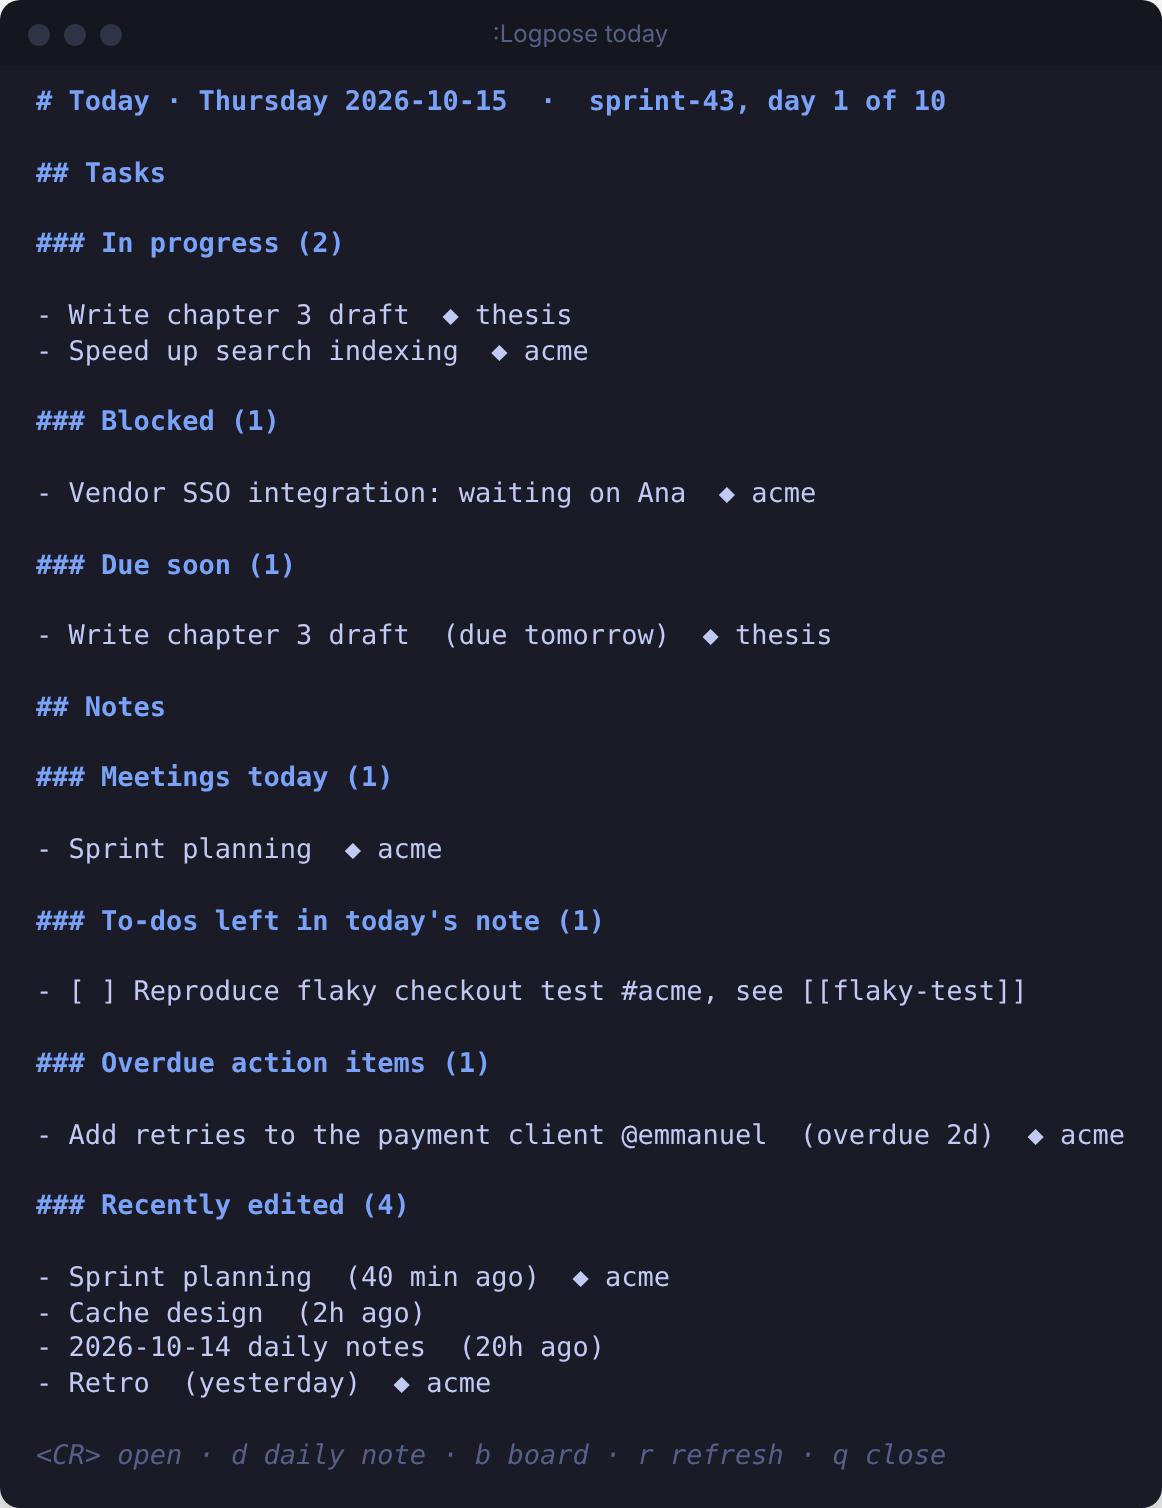
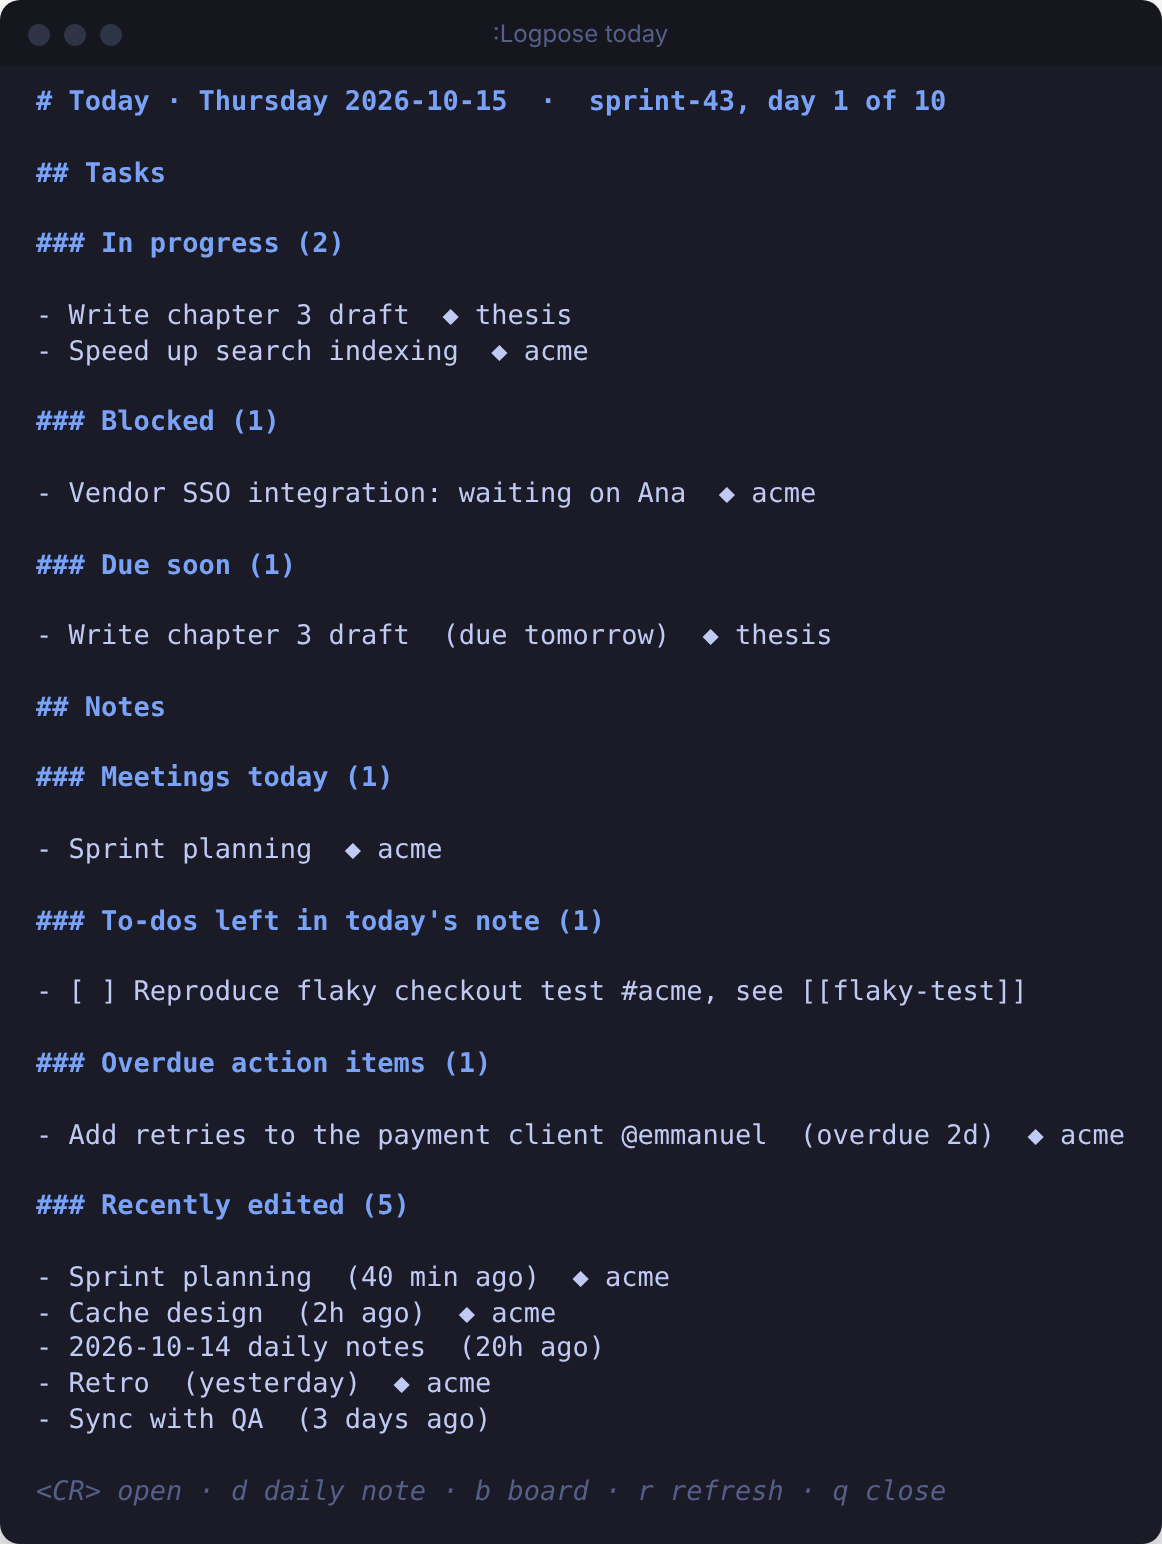
docs: lists and the filter language

diff --git a/scripts/screenshots/shot.py b/scripts/screenshots/shot.py
@@ -1,7 +1,7 @@
 import re, sys, html, pathlib
 from playwright.sync_api import sync_playwright
 d = pathlib.Path(sys.argv[1])
-views = [("board", "~/journal — :Logpose board"), ("today", ":Logpose today"), ("projects", ":Logpose projects"), ("edit", ":Logpose edit — Fix flaky checkout test"), ("notes", ":Logpose notes")]
+views = [("board", "~/journal — :Logpose board"), ("today", ":Logpose today"), ("projects", ":Logpose projects"), ("edit", ":Logpose edit — Fix flaky checkout test"), ("notes", ":Logpose notes"), ("meetings", ":Logpose meetings")]
 out = pathlib.Path(sys.argv[2]); out.mkdir(exist_ok=True)
 with sync_playwright() as p:
     b = p.chromium.launch()

diff --git a/README.md b/README.md
@@ -19,7 +19,7 @@ Requires Neovim 0.10 or later.
 - **Start:** [Install](#install) · [Quick start](#quick-start) ·
   [Tasks, notes and to-dos](#tasks-notes-and-to-dos) · [How it fits a sprint](#how-it-fits-a-sprint)
 - **Guide:** [Daily notes and standup](#daily-notes-and-standup) · [Meetings](#meetings) ·
-  [Tasks and the board](#tasks-and-the-board) · [Notes screen](#the-notes-screen) ·
+  [Tasks and the board](#tasks-and-the-board) · [Lists](#meetings-notes-and-people-lists) ·
   [Today screen](#the-today-screen) ·
   [Projects](#projects) · [Search](#search) · [Action items](#action-items-and-people) ·
   [People](#people) ·
@@ -367,35 +367,55 @@ with that title exists, the write-up is added to its end. On a to-do inside a ta
 
 > **Configure:** columns, WIP limits, colours and glyphs are all in [`board`](#configuration).
 
-## The notes screen
+## Meetings, notes and people lists
 
-**The board is for tasks; this is for notes.**
+**The board is for tasks; these are for everything else.**
 
-![The notes screen: meetings, topic notes, daily notes and project pages, newest first, with open to-dos, linked tasks and projects](docs/images/notes.png)
+![The meetings list: meetings grouped by week, with their type, attendees, open action items, linked tasks and project](docs/images/meetings.png)
 
-`:Logpose notes` lists your notes newest first, in sections: meetings, topic notes, daily notes
-and project pages. Each line shows the note's date and title, how many open to-dos it holds
-(`☐ 2 to-dos`), how many tasks it's linked with (`→ 1 task`) and, on the all-projects view, its
-project. Long sections show the newest eight; `<CR>` on `… N more` shows the rest.
+```vim
+:Logpose meetings                       " every meeting, by week
+:Logpose meetings attendees:ana         " the ones Ana attended
+:Logpose notes                          " topic notes and project pages
+:Logpose people                         " everyone you work with
+```
 
-Like the board, it shows the active project's notes (by `project:` or a `#project` tag, so a
-daily note mentioning `#acme` counts), or all of them when there's none. `f` on a project in
-`:Logpose projects` opens it for that project.
+Each is a list grouped under headings, newest or most relevant first, with what matters at a
+glance:
+
+| List | Each line | Group by (`g`) |
+|---|---|---|
+| **Meetings** | date, type, title, who was there, open action items (`☐ 2 open`), tasks it led to (`→ 1 task`) | week · type · project · series |
+| **Notes** | date, title, open to-dos, linked tasks, project, tags | type · project · tag · month |
+| **People** | name, role, how to reach them, when you last met, open to-dos they own | page · project · role · last met |
+
+Notes lists topic notes and project pages; daily notes show up with `type:daily` in the filter
+(and meetings with `type:meeting`). Like the board, each list shows the active project, or every
+project when there's none.
+
+**Moving an entry changes its note**, so the list and your files always agree. Grouped by
+project, `m` moves a meeting to another project (its file moves to that project's folder, links
+follow); grouped by type it changes the meeting's `type:`; by tag it swaps the note's tag; by role
+or project it updates the person's page. `<` and `>` move to the previous or next group. Groups
+that come from the note itself (week, month, when you last met) can't be moved to; `e` edits the
+date instead.
 
 | Key | Does |
 |---|---|
-| `<CR>` | Open the note. On a heading, fold or unfold the section. |
-| `e` | Edit the note's details (frontmatter) in the form. |
-| `/` | Filter, with the `find` filters: `#tag`, `@ana`, `type:retro`, `since:-7d`… |
+| `<CR>` | Open it. On a heading, fold the group; on `… N more`, show the rest. |
+| `<Tab>` | Details: the attendees, action items, linked tasks; for a person, their meetings, to-dos and mentions. `<CR>` opens any of them. |
+| `K` | Peek: the note in a floating window, to read and edit. |
+| `/` | Filter, with the [find filters](#search-filters): `type:retro or type:review`, `attendees:ana date>=-30d`, `-#draft`… |
+| `g` / `s` | Change the grouping / the order (newest, oldest, by title; people: recently met, by name, most involved). |
+| `m`, `<`, `>` | Move to another group (asks, with `new…` for a new project, tag or role) / the previous / the next. |
+| `e` / `a` | Edit in the form / add a new one in the group you're in. |
 | `p` | This project / all projects. |
-| `g` | Group by type / by project. |
-| `z` | Fold or unfold the section. |
-| `a` | A new note for the section you're in: a meeting under Meetings, else a topic note (in the form, with this screen's project). |
-| `n` / `m` | A new topic note / meeting, in the form. |
-| `d` / `b` | Today's daily note / the board. |
+| `z`, `]]`, `[[` | Fold the group; jump to the next / previous group. |
 | `r` / `q` / `?` | Refresh / close / help. |
 
-`:Logpose notes #perf` starts with a filter.
+The people list adds `y` (copy a way to reach them), `o` (open it: mail, chat), `1` (start a 1:1)
+and `R` (rename them everywhere); the notes list `d` (today's daily note) and `b` (the board).
+`f` on a project in `:Logpose projects` opens its notes.
 
 ## The today screen
 
@@ -430,7 +450,7 @@ switches without leaving where you are.
 **No project** suits switching contexts all day: nothing is pinned or detected, and new meetings
 and topic notes open their form with the project empty, so you choose it there
 (`:Logpose meeting retro` opens the form with Retro picked, `:Logpose note Title` with the
-title). The board, today and notes screens show every project. It stays that way, across
+title). The board, today and the lists show every project. It stays that way, across
 restarts, until you switch to a project or `auto`.
 
 With `auto` (the default), logpose works the project out from where you are:
@@ -462,7 +482,7 @@ come first, and ones untouched for two weeks fade. `<Tab>` opens a project in pl
 | `b` | Open the project's board. |
 | `n` | Open its project page. |
 | `t` / `o` | Search its open tasks / its open to-dos. |
-| `f` | Open the notes screen for it. |
+| `f` | Open the notes list for it. |
 | `a` | Add a project: its name, then its repo folder (suggested from where you came from). |
 | `p` | Link another repo folder to the project. |
 | `e` | Edit its name, description, repo folders and colour in a form. |
@@ -533,6 +553,8 @@ separate scopes: `notes` never lists tasks. Everything after it is a
 | `open` / `done` | tasks (in Done or not), to-dos (checked or not) |
 | `blocked` | blocked tasks |
 | `sprint:current`, `sprint:-1`, `since:-7d` | a time range |
+| `attendees:ana`, `date>=-30d`, `role:lead` | any frontmatter field |
+| `a or b`, `not a`, `-a`, `( … )` | either, neither, grouping |
 | any other word | must appear in the text |
 
 All filters are in the [reference](#search-filters).
@@ -594,17 +616,17 @@ Prefers async reviews. Back from leave on the 21st.
 ```
 
 `aliases` make "Ana", `@ana` and "Ana López" the same person everywhere: completion, filters
-(`person:ana` finds the notes that say Ana López too), the people screen. `projects` puts her
-first in that project's meetings before you've met her there. Add a person from the people screen
+(`person:ana` finds the notes that say Ana López too), the people list. `projects` puts her
+first in that project's meetings before you've met her there. Add a person from the people list
 (`a`), with `:Logpose person`, or with `:Logpose edit` on their page; the form has a field for
 each way to reach people.
 
-**The people screen** lists people with a page (most recently met first), then the people your
-notes mention who have no page yet. `<Tab>` shows what involves someone (their meetings, the open
-to-dos they own, tasks and notes mentioning them). `<CR>` opens their page, or the form to add one.
-`e` edits it, `m` starts a 1:1, `y` copies a way to reach them and `o` opens it (a mail, a chat).
-`R` renames them everywhere, `/` filters by name, role or project, `p` switches between this
-project and everyone, `?` lists the keys.
+**The people list** (`:Logpose people`, see [the lists](#meetings-notes-and-people-lists)) shows
+people with a page, then the people your notes mention who have no page yet. `<Tab>` shows what
+involves someone (their meetings, the open to-dos they own, tasks and notes mentioning them).
+`<CR>` opens their page, or the form to add one. `e` edits it, `1` starts a 1:1, `y` copies a way
+to reach them and `o` opens it (a mail, a chat). `R` renames them everywhere, and `/` filters with
+any field: `role:lead`, `slack:*`, `project:acme`.
 
 `gx` on an `@mention` or an attendee opens their page. `:Logpose rename-person ana Ana García`
 renames someone everywhere: the page (the old name stays as an alias), attendees and `@mentions`.
@@ -833,12 +855,13 @@ mapping. A `!` can go on either word: `:Logpose archive!` is the same as `:Logpo
 
 | Command | Does |
 |---|---|
-| `notes [FILTERS]` | The notes screen: notes by type or project, with their to-dos and linked tasks. |
+| `meetings [FILTERS]` | Every meeting, by week, type, project or series, with attendees and action items. |
+| `notes [FILTERS]` | Topic notes and project pages by type, project, tag or month, with their to-dos and linked tasks. |
 | `note [TITLE]` | Create or open a topic note. Without a title, the new-note form. |
 | `project [NAME\|none\|auto]` | Switch project (the projects screen without a name); `none` for no project, `auto` to detect it. |
 | `projects` | Manage projects: what needs attention, add, rename, merge, archive. |
 | `project-page [NAME]` | Create or open a project page. |
-| `people [FILTER]` | The people screen: everyone you work with, how to reach them, what involves them. |
+| `people [FILTERS]` | Everyone you work with, how to reach them, what involves them. |
 | `person [NAME]` | Open someone's page, or add one. |
 | `edit [last]` | Edit the frontmatter of this note or task (or the last captured task's, or the tasks on selected quickfix lines) in a form. |
 
@@ -884,14 +907,24 @@ With cards marked, `H` `L`, `1`–`9`, `x`, `b`, `m` and `e` act on all of them 
 | `project:acme` | items of the project, or tagged `#acme` |
 | `#perf`, `tag:perf` | tagged items |
 | `@ana`, `person:ana` | items involving the person: attendee, 1:1, or @mention |
-| `type:retro` | meetings of that type |
+| `type:retro` | meetings of that type; `type:daily`, `type:meeting`, `type:topic`, `type:project`, `type:task`, `type:person` for kinds of notes |
 | `open`, `done` | tasks (in Done or not) and to-dos (checked or not) |
 | `status:in-progress` | tasks in that board column |
 | `blocked` | blocked tasks |
 | `since:DATE`, `until:DATE` | `2026-10-14`, `today`, `yesterday`, `tomorrow`, `-7d`, `+2w` |
 | `week:current`, `sprint:-1`, `sprint:42` | a whole week or sprint |
 | `section:decisions` | lines under a matching `##` heading |
-| any other word | must appear in the text |
+| `key:value` | any frontmatter field containing the value (case and accents ignored): `room:lisboa`, `role:lead` |
+| `attendees:ana`, `with:ana` | meetings with the person, by any of their names, or part of one |
+| `date:2026-10`, `date:2026`, `due:today` | a day, month or year (also `created:`, `started:`, `done:`, `modified:`) |
+| `date>=-7d`, `due<today`, `score>3` | comparisons: `>`, `>=`, `<`, `<=` (dates and numbers) |
+| `date:2026-10-01..2026-10-15`, `date:..2026-09` | a range of dates |
+| `slack:*`, `has:email`, `no:email` | has the field / doesn't |
+| `a or b` | either one (`and` is the default between filters; it binds tighter than `or`) |
+| `not a`, `-a` | the opposite: `-#draft`, `not type:daily` |
+| `( … )` | grouping: `(type:retro or type:review) @ana` |
+| `"two words"` | a value with spaces: `attendees:"Ana López"` |
+| any other word | must appear in the text (accents ignored) |
 
 Tags are inline `#words` (not headings, URL fragments or numbers like `#123`) and frontmatter
 `tags: [a, b]`, compared without case.
@@ -908,7 +941,8 @@ and it never replaces a key you've mapped yourself.
 | | `<leader>js` | standup | `<leader>jr` | report |
 | | `<leader>jP` | projects (switch, manage) | `<leader>je` | edit details (frontmatter) |
 | | `<leader>ju` | people | | |
-| **Notes** | `<leader>jl` | notes screen | `<leader>jd` | daily note |
+| **Notes** | `<leader>jl` | notes list | `<leader>jd` | daily note |
+| | `<leader>jM` | meetings list | | |
 | | `<leader>jm` | meeting note | `<leader>jn` | topic note |
 | | `<leader>jf` | find notes | `<leader>jb` | backlinks |
 | | `<leader>j/` | grep the journal | | |
@@ -990,9 +1024,9 @@ Colours come from highlight groups linked to your colour scheme. Override
 `LogposeBoardNotes` (the linked-notes count),
 `LogposeBoardBlocked`, `LogposeBoardOverdue`, `LogposeBoardDueSoon`, `LogposeBoardStale`,
 `LogposeBoardDone`, `LogposeBoardMarked`, `LogposeBoardProject`, `LogposeBoardTag`,
-`LogposeBoardTitle` or `LogposeBoardHint` to change them. The notes screen uses
-`LogposeNotesHeading`, `LogposeNotesDate`, `LogposeNotesMeta`, `LogposeNotesTodos`,
-`LogposeNotesTasks` and `LogposeNotesHint`.
+`LogposeBoardTitle` or `LogposeBoardHint` to change them. The lists use `LogposeListHeading`,
+`LogposeListGroup`, `LogposeListDate`, `LogposeListMeta`, `LogposeListTodos`, `LogposeListTasks`,
+`LogposeListPeople` and `LogposeListHint`.
 
 </details>
 

diff --git a/docs/SPEC.md b/docs/SPEC.md
@@ -64,7 +64,7 @@ capture/done, sprint-aware archives and reports.
 
 **Releases.** Annotated tags in `MAJOR.MINOR.PATCH` form (no `v` prefix). Each completed feature
 bumps the minor version (0.1.0 = F0+F1, 0.2.0 = F1.5, 0.3.0 = F1.6, 0.4.0 = F2, 0.5.0 = F2.1, 0.6.0 = F3, 0.7.0 = F4, 0.8.0 = F5, 0.9.0 = F6, 0.10.0 = O1, 0.11.0 = O2, 0.12.0 = O3, 0.13.0 = O4, 0.14.0 = O5, 0.15.0 = O6, 0.16.0 = F7,
-0.17.0 = F8, 0.18.0 = T1, 0.19.0 = live search and previews, 0.20.0 = B1, 0.21.0 = markdownlint-clean notes, 0.22.0 = timestamps, board look and delete, 0.23.0 = peek, scrolling columns, WIP limits and age, 0.23.1 = board resize fixes, 0.24.0 = command menu, statusline, board undo, 0.25.0 = today, keymaps preset, titled notifications, board extras, 0.25.1 = docs rewrite, 0.26.0 = project manager, project completion and board-follows-project fixes, 0.27.0 = project switcher, project pages as registry, moving tasks between projects, merging projects, 0.28.0 = switching opens the board, 0.28.1 = board and projects split into modules, tests 40× faster, 0.28.2 = caching for big journals, 0.29.0 = frontmatter editor, 0.30.0 = capture picks the project, form rework, bulk edits, 0.30.1 = completion menu closes after a choice, 0.30.2 = <CR> accepts from the menu, nvim-cmp off in the form, 0.31.0 = the edit form stays open after saving, 0.32.0 = card redesign, 0.32.1 = automatic project colours, no cursorline on the board, 0.33.0 = borders tinted with the project's colour, 0.34.0 = column-coloured borders by default again, tags as chips, 0.35.0 = shared date wording and frontmatter writer; triage, move and the switcher removed, 0.36.0 = new-task form, 0.37.0 = linked notes on cards, recently edited notes on today, 0.38.0 = tasks, notes and to-dos kept apart; INBOX, DONE and migrate removed, 0.39.0 = notes screen, 0.40.0 = new-note forms, 0.40.1 = gx follows note links, 0.40.2 = promoted to-dos start in Backlog, 0.40.3 = gx works alongside a markdown plugin's, 0.41.0 = notes from tasks; promoted to-dos keep their text, 0.42.0 = people: a list, forgiving matching, completion in notes, 0.43.0 = people pages and the people screen, 0.44.0 = to-dos and their tasks in step, 0.45.0 = "no project" mode); fixes bump the patch;
+0.17.0 = F8, 0.18.0 = T1, 0.19.0 = live search and previews, 0.20.0 = B1, 0.21.0 = markdownlint-clean notes, 0.22.0 = timestamps, board look and delete, 0.23.0 = peek, scrolling columns, WIP limits and age, 0.23.1 = board resize fixes, 0.24.0 = command menu, statusline, board undo, 0.25.0 = today, keymaps preset, titled notifications, board extras, 0.25.1 = docs rewrite, 0.26.0 = project manager, project completion and board-follows-project fixes, 0.27.0 = project switcher, project pages as registry, moving tasks between projects, merging projects, 0.28.0 = switching opens the board, 0.28.1 = board and projects split into modules, tests 40× faster, 0.28.2 = caching for big journals, 0.29.0 = frontmatter editor, 0.30.0 = capture picks the project, form rework, bulk edits, 0.30.1 = completion menu closes after a choice, 0.30.2 = <CR> accepts from the menu, nvim-cmp off in the form, 0.31.0 = the edit form stays open after saving, 0.32.0 = card redesign, 0.32.1 = automatic project colours, no cursorline on the board, 0.33.0 = borders tinted with the project's colour, 0.34.0 = column-coloured borders by default again, tags as chips, 0.35.0 = shared date wording and frontmatter writer; triage, move and the switcher removed, 0.36.0 = new-task form, 0.37.0 = linked notes on cards, recently edited notes on today, 0.38.0 = tasks, notes and to-dos kept apart; INBOX, DONE and migrate removed, 0.39.0 = notes screen, 0.40.0 = new-note forms, 0.40.1 = gx follows note links, 0.40.2 = promoted to-dos start in Backlog, 0.40.3 = gx works alongside a markdown plugin's, 0.41.0 = notes from tasks; promoted to-dos keep their text, 0.42.0 = people: a list, forgiving matching, completion in notes, 0.43.0 = people pages and the people screen, 0.44.0 = to-dos and their tasks in step, 0.45.0 = "no project" mode, 0.46.0 = filter language with or/not/fields; meetings, notes and people lists); fixes bump the patch;
 1.0.0 once M3 is done.
 
 ---
@@ -1264,6 +1264,51 @@ so an action item doesn't stay open after its task is done.
 both ways with the column from the log, asking for unstarted tasks, hand edits saved, unsaved
 buffers, the index safety net, carrying over.
 
+## C8 — Filter language and lists (0.46.0)
+
+**Goal.** Meetings, notes and people browsed like tasks are on the board: grouped, filtered by
+anything in their frontmatter (with `and`, `or`, `not`), and changed by moving them.
+
+**Design: the filter language** (`query.lua`)
+- `parse(args, today, lenient)` tokenizes the joined arguments (`(`, `)`, `"quoted text"`) and
+  builds an expression: `or` of `and`s of factors; a factor is `not`/`!`, a leading `-`
+  (not before a digit, so `-7d` stays a word), `( … )`, or a filter. `and` is implicit (or
+  written `and`/`&`); `or`/`|`. Lenient mode skips invalid or half-typed filters and unbalanced
+  parentheses; strict mode raises.
+- Filters: the old ones (project, tags, `type:`, open/done, since/until, week/sprint, section,
+  person/`@`, status, blocked, words) plus any frontmatter field `key:value` (contains, case and
+  accents ignored; lists match any element), `key>=v` `>` `<=` `<` (dates and numbers), ranges
+  `key:a..b`, `key:*`/`has:key`/`no:key`. Date fields (`date`, `due`, `done`, `created`,
+  `started`, `modified`) and date-looking values compare as days; a month or year means its
+  whole span (`date<=2026-10` includes the 31st). `attendees:`/`with:` match a person by any of
+  their names (`people.expand`) or part of one. `type:` also matches the kind of note
+  (`daily`, `meeting`, `topic`, `project`, `task`, `person`).
+- Items carry `fields` (the file's frontmatter; a to-do or line, its note's), so fields work in
+  every scope. `q` is `{ expr }`; `match`, `filter`, `is_empty`.
+
+**Design: lists** (`lists/init.lua`, views `lists/meetings.lua`, `lists/notes.lua`,
+`lists/people.lua`; `lists/common.lua` for shared pieces)
+- One engine renders a view: entries (`collect`), filtered by project scope and the filter,
+  sorted (`sorts`), grouped (`groupings[i].of(e)` → groups; an entry may be in several),
+  `## Group (n)` headings with the first ten rows and `… N more`, `<Tab>` details, folding.
+- Moving (`m`, `<`, `>`) calls the grouping's `move(s, e, from, to)`, which writes the note
+  through `edit.save.note` (a meeting's project moves its file and fixes links; tags and
+  `projects` lists swap `from` for `to`). Groupings without `move` (week, month, series, last
+  met, page, type of note) refuse with a message. `targets` lists where to go, `ask` adds
+  "new…".
+- Meetings: by week (default), type, project, series. Notes: topic notes and project pages
+  (archived projects' pages left out); daily notes / meetings only when the filter names
+  `type:daily` / `type:meeting`; by type, project, tag, month; the date shown is `date:`, else
+  `created:`, else the file's time. People: `people.known` entries with a synthesized item
+  (text = name, role, aliases; tags = projects; people = slugs; date = last met; fields = the
+  page's), by page, project, role, last met; keys `1`, `y`, `o`, `R`.
+- They replace the notes screen (`notes/browse.lua`) and the people screen
+  (`people/screen.lua`); `K` (peek) moved to `util/peek.lua`, shared with the board.
+
+**Tests** (`test_query.lua`, `test_lists.lua`, `test_lists_people.lua`): the language (or, not,
+parentheses, fields, people, dates, ranges, lenient parsing), each list's rows, details,
+groupings, filters and moves, projects screen `f`.
+
 ## 5. Command reference (final state)
 
 | Command                                   | Feature |
@@ -1291,7 +1336,8 @@ buffers, the index safety net, carrying over.
 | `:Logpose board [filters]`                | B1 |
 | `:Logpose promote`                        | B1, C1 |
 | `:Logpose today`, `edit`, `projects`      | later minors |
-| `:Logpose notes [filters]`                | C2 |
+| `:Logpose notes [filters]`                | C2, C8 |
+| `:Logpose meetings [filters]`             | C8 |
 | `:Logpose people [filter]`, `person [handle]`, `rename-person` | C6 |
 
 ## 6. Definition of done (every feature)
@@ -1329,6 +1375,9 @@ years).
 ## 7. Release notes
 
 Per-release changes are in the annotated tags (`git tag -n`). Breaking changes so far:
+- 0.46.0: the notes screen became the notes list (topic notes and project pages; meetings have
+  `:Logpose meetings`, daily notes need `type:daily`); on the people list `1` starts a 1:1 (`m`
+  moves); highlight groups `LogposeNotes*`/`LogposePeople*` became `LogposeList*`.
 - 0.45.0: `:Logpose project none` means no project (nothing detected, picked per note);
   `:Logpose project auto` is what `none` used to do (unpin and detect).
 - 0.43.0: `people.md` and `people.file` are gone: people live in `people/<slug>.md` pages;
